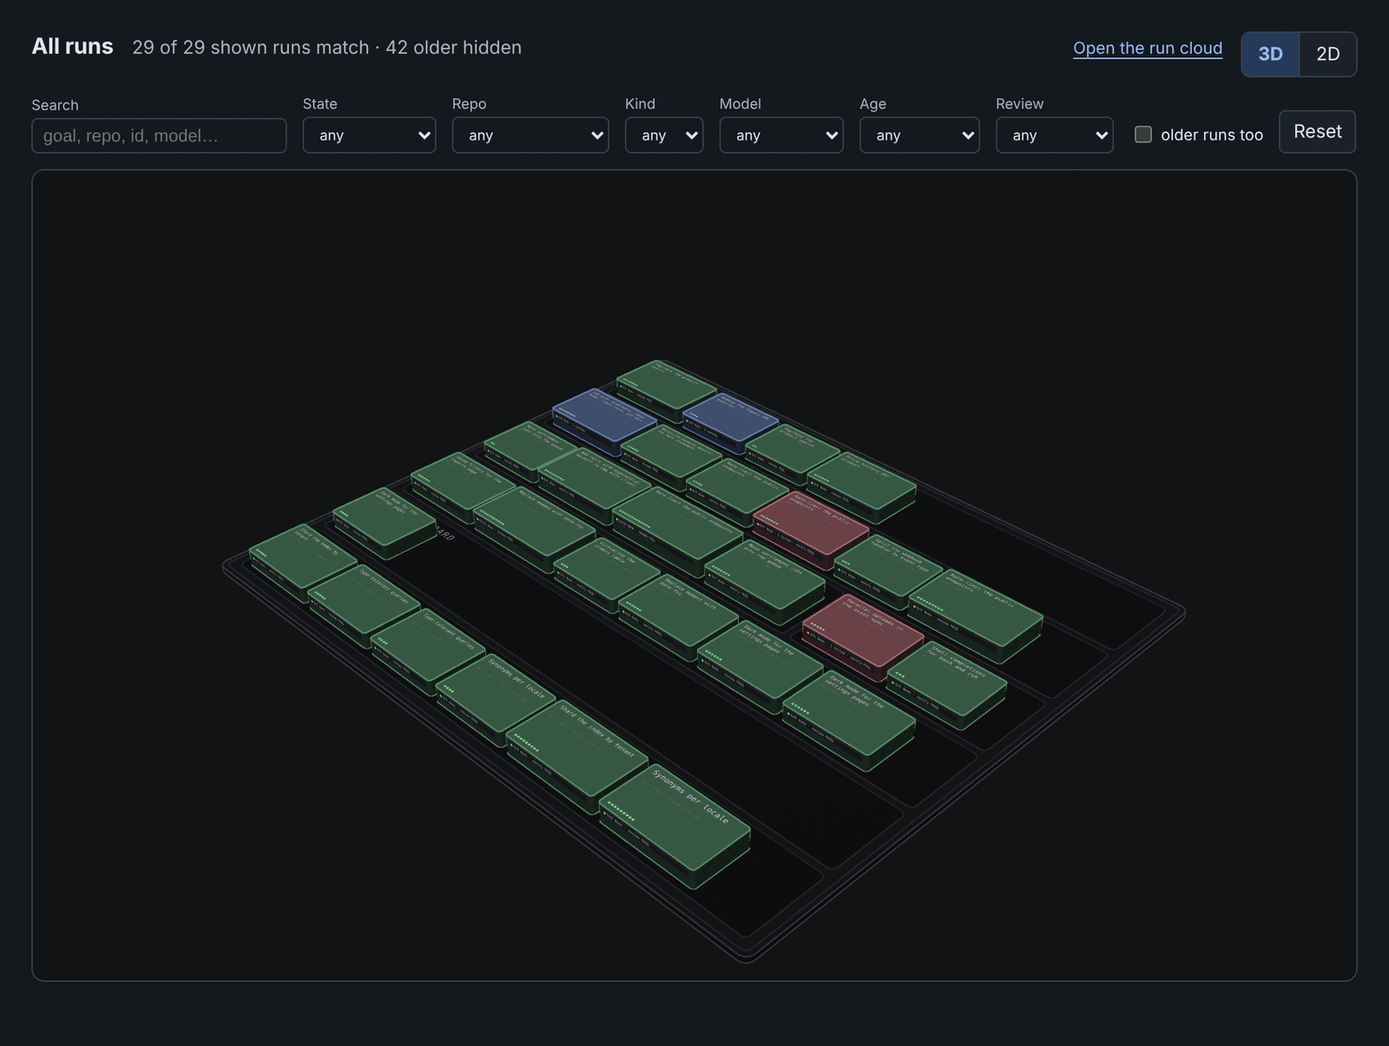
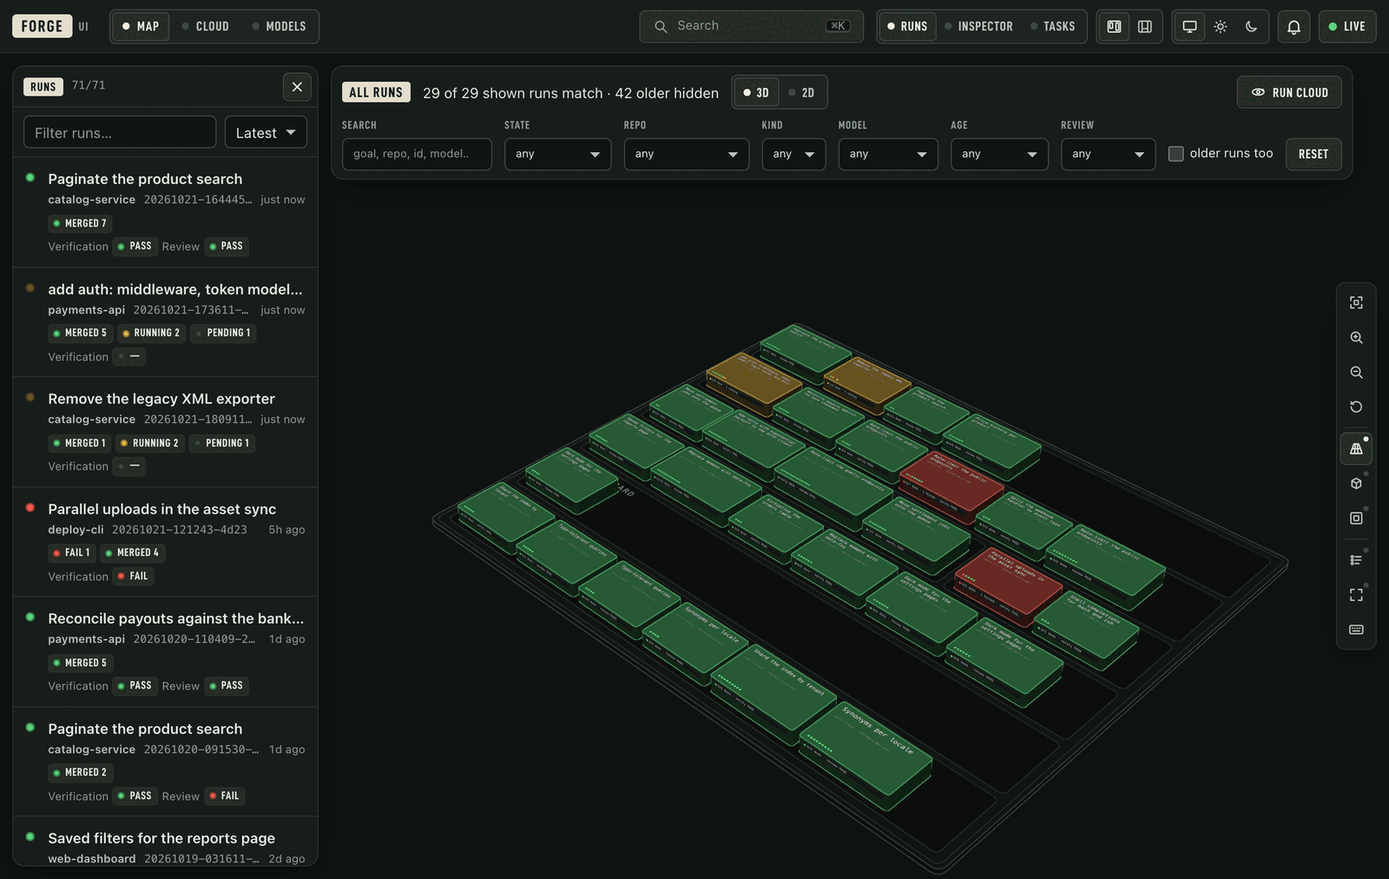
docs(ui): README pictures of the new forge-ui
The hero, the run cloud and the stills are shot again from the demo runs in
the Signal Box look: whole windows with the runs list and the inspector, the
finding marks on the plate, the diff opened at a finding. readme_media.py
seeds the Immersive modules per shot, zooms with the stage's own key, keeps
frames coming while it waits (headless Chromium can stop drawing otherwise)
and builds the animations with ImageMagick and img2webp, so it no longer
needs an ffmpeg built with libwebp. A finding in a diff now shows its
severity's shape once, in its chip.

diff --git a/ui/forge_ui/static/style.css b/ui/forge_ui/static/style.css
@@ -810,8 +810,7 @@ dialog.jump::backdrop, dialog.export-dialog::backdrop { background: light-dark(r
 .diff-line.meta td.code { color: var(--muted); font-style: italic; }
 .diff-hunk td { background: var(--hunk); color: var(--muted); padding: 3px 10px; white-space: pre; }
 .diff-pin > td { padding: 6px 10px 6px 7.4em; background: var(--module); font-family: var(--font-ui); font-size: var(--t-sm); white-space: normal; }
-.diff-finding { position: relative; border: 1px solid var(--rule); border-radius: var(--r-key); padding: 6px 10px 6px 26px; background: var(--module); max-width: 900px; scroll-margin: 80px; transition: box-shadow var(--dur-1) var(--ease-out); }
-.diff-finding::before { content: ''; position: absolute; left: 9px; top: 11px; width: 10px; height: 10px; clip-path: var(--sev-shape, circle(30%)); background: var(--sev, var(--rule-2)); }
+.diff-finding { position: relative; border: 1px solid var(--rule); border-radius: var(--r-key); padding: 6px 10px; background: var(--module); max-width: 900px; scroll-margin: 80px; transition: box-shadow var(--dur-1) var(--ease-out); }   /* its chip carries the severity's shape */
 .diff-finding.flash { box-shadow: 0 0 0 2px var(--route); }
 .diff-finding-head { display: flex; flex-wrap: wrap; align-items: center; gap: 6px; font-size: var(--t-xs); }
 .diff-finding p { margin: 4px 0 0; overflow-wrap: anywhere; }

diff --git a/ui/tools/readme_media.py b/ui/tools/readme_media.py
@@ -1,6 +1,6 @@
 """The README's pictures of forge-ui, made again from the made-up runs of demo_runs.py.
 
-Needs Python Playwright with its Chromium, ffmpeg (with libwebp) and ImageMagick, and three.js:
+Needs Python Playwright with its Chromium, ImageMagick and the WebP tools (img2webp), and three.js:
 from the CDN, or from a local copy of the three@0.160.0 npm package named by FORGE_UI_TEST_THREE
 (its package/ dir).
 Development-only, like the browser tests: nothing here runs in forge itself.
@@ -10,6 +10,7 @@ Development-only, like the browser tests: nothing here runs in forge itself.
 from __future__ import annotations
 
 import argparse
+import json
 import os
 from pathlib import Path
 import shutil
@@ -62,15 +63,18 @@ class Studio:
     def __init__(self, out, browser, url, key, catalog):
         self.out, self.browser, self.url, self.key, self.catalog = out, browser, url, key, catalog
 
-    def page(self, motion=False, mode='plan', view=None):
+    def page(self, motion=False, mode='plan', view=None, shell=None):
+        """shell: which modules start open ({'runs', 'insp', 'tasks'}: true or false), Immersive layout."""
         ctx = self.browser.new_context(viewport=view or (MOTION_VIEW if motion else VIEW), device_scale_factor=1 if motion else 2,
                                        color_scheme='dark')
         page = ctx.new_page()
         if motion:
             page.add_init_script(CLOCK)
         page.on('pageerror', lambda e: print('page error:', e, file=sys.stderr))
+        modules = {'shell': 'immersive', 'runs': False, 'insp': False, 'tasks': False, **(shell or {})}
         page.add_init_script("try { localStorage.setItem('forge-ui-view', '\"3d\"'); "
-                             f"localStorage.setItem('forge-ui-mode', '\"{mode}\"'); }} catch (_) {{}}")
+                             f"localStorage.setItem('forge-ui-mode', '\"{mode}\"'); "
+                             f"localStorage.setItem('forge-ui-shell', '{json.dumps(modules)}'); }} catch (_) {{}}")
         if THREE:
             def serve(route):
                 path = Path(THREE) / route.request.url[len(CDN):].split('?')[0]
@@ -91,8 +95,9 @@ class Studio:
 
     @staticmethod
     def settle(page, ms=900):
-        """Let tweens and the camera finish, then wait for two quiet frames."""
-        page.wait_for_timeout(ms)
+        """Let tweens and the camera finish, asking for frames all along (headless Chromium can stop drawing a
+        page whose only pending frame was asked for mid-frame), then wait for two quiet frames."""
+        page.evaluate('ms => new Promise(r => { const t0 = performance.now(); const f = () => performance.now() - t0 > ms ? r() : requestAnimationFrame(f); f(); })', ms)
         page.evaluate('() => new Promise(r => requestAnimationFrame(() => requestAnimationFrame(r)))')
 
     def still(self, page, name, clip):
@@ -120,10 +125,12 @@ class Studio:
             w, h, x, y = (int(v) for v in box.replace('x', '+').split('+'))
             x0, y0 = max(x + inset - pad, inset), max(y + inset - pad, inset)
             x1, y1 = min(x + inset + w + pad, width - inset), min(y + inset + h + pad, height - inset)
-            subprocess.run(['ffmpeg', '-v', 'error', '-y', '-framerate', str(FPS), '-i', str(Path(tmp) / '%05d.png'),
-                            '-vf', f'crop={x1 - x0}:{y1 - y0}:{x0}:{y0},scale=min({ANIM_WIDTH}\\,iw):-1:flags=lanczos',
-                            '-c:v', 'libwebp_anim', '-lossless', '0', '-quality', '75', '-compression_level', '6', '-loop', '0',
-                            str(dest)], check=True)
+            cut = Path(tmp) / 'cut'
+            cut.mkdir()
+            subprocess.run(['mogrify', '-path', str(cut), '-crop', f'{x1 - x0}x{y1 - y0}+{x0}+{y0}', '+repage',
+                            '-filter', 'Lanczos', '-resize', f'{ANIM_WIDTH}x>', *map(str, first)], check=True)
+            subprocess.run(['img2webp', '-loop', '0', '-lossy', '-q', '75', '-m', '6', '-d', str(1000 // FPS),
+                            *map(str, sorted(cut.glob('*.png'))), '-o', str(dest)], check=True, capture_output=True)
         print(f'{dest.name}: {dest.stat().st_size // 1024} KB, {len(frames)} frames')
 
     @staticmethod
@@ -136,34 +143,35 @@ class Studio:
             y1 = min(y1, bottom)
         return dict(x=max(x0, 0), y=max(y0, 0), width=x1 - max(x0, 0), height=y1 - max(y0, 0))
 
-    def zoom(self, page, clicks, at=(.5, .5)):
-        """Bring the camera closer: a click in an empty corner engages the wheel without selecting anything."""
-        slot = self.box(page, '#stage-slot')
-        page.mouse.click(slot['x'] + 10, slot['y'] + 10)
-        page.mouse.move(slot['x'] + slot['width'] * at[0], slot['y'] + slot['height'] * at[1])
-        for _ in range(clicks):
-            page.mouse.wheel(0, -160)
-            page.wait_for_timeout(150)
-        page.evaluate('document.activeElement && document.activeElement.blur()')   # no focus ring in the picture
+    def zoom(self, page, presses):
+        """Bring the camera closer with the stage's own key (+), which works wherever focus is."""
+        for _ in range(presses):
+            page.keyboard.press('+')
+            page.wait_for_timeout(300)
         page.mouse.move(0, 0)
         self.settle(page, 1200)
+
+    @staticmethod
+    def window(page):
+        """The whole window: the stage with the modules floating over it."""
+        return dict(x=0, y=0, **page.viewport_size)
 
     # -- stills ----------------------------------------------------------------------------------
 
     def run(self):
-        ctx, page = self.page()
+        ctx, page = self.page(shell={'runs': True, 'insp': True})
         self.go(page, f'#/runs/{self.key}')
         self.settle(page, 1500)
-        self.zoom(page, 3)
-        self.still(page, 'run', self.box(page, '#stage-slot', '#inspector', pad=8, bottom=VIEW['height'] - 4))
+        self.zoom(page, 1)
+        self.still(page, 'run', self.window(page))
         ctx.close()
 
     def execution(self):
-        ctx, page = self.page(mode='exec')
+        ctx, page = self.page(mode='exec', shell={'insp': True})
         self.go(page, f'#/runs/{self.key}')
         self.settle(page, 1500)
-        self.zoom(page, 5, at=(.42, .5))
-        self.still(page, 'execution', self.box(page, '#stage-slot', '#inspector', pad=8, bottom=VIEW['height'] - 4))
+        self.zoom(page, 2)
+        self.still(page, 'execution', self.window(page))
         ctx.close()
 
     def files(self):
@@ -171,20 +179,19 @@ class Studio:
         self.go(page, f'#/runs/{self.key}', stage=False)
         page.wait_for_selector('#files-view .fm-cell')
         self.settle(page)
-        self.still(page, 'files', self.box(page, '#files-view', pad=8, bottom=VIEW['height'] - 4))
+        self.still(page, 'files', self.box(page, '#main', bottom=VIEW['height']))
         ctx.close()
 
     def diff(self):
         detail = server.api_get(self.catalog, f'/api/runs/{self.key}/tasks/token-model/diff')
         source = next(s['id'] for s in detail['sources'] if s.get('verdict') == 'FAIL')
         ctx, page = self.page()
-        self.go(page, f'#/runs/{self.key}/tasks/token-model/diff/{source}', stage=False)
+        # opened at its first finding, as a finding's mark on the stage opens it: the diff scrolls to it
+        self.go(page, f'#/runs/{self.key}/tasks/token-model/diff/{source}/finding/{source}%3A0', stage=False)
         page.wait_for_selector('#diff-view .diff-pin')
-        self.settle(page)
-        page.locator('#diff-view').scroll_into_view_if_needed()
-        self.settle(page, 300)
-        last = page.locator('#diff-view .diff-pin').last.bounding_box()
-        self.still(page, 'diff', self.box(page, '#diff-view', pad=8, bottom=last['y'] + last['height'] + 12))
+        self.settle(page, 2000)                                 # past the finding's flash
+        page.evaluate('document.activeElement && document.activeElement.blur()')
+        self.still(page, 'diff', self.box(page, '#diff-view', pad=8, bottom=VIEW['height'] - 4))
         ctx.close()
 
     def models(self):
@@ -196,11 +203,11 @@ class Studio:
         ctx.close()
 
     def map(self):
-        ctx, page = self.page()
+        ctx, page = self.page(shell={'runs': True})
         self.go(page, '#/')
         self.settle(page, 1500)
-        self.zoom(page, 2)
-        self.still(page, 'map', self.box(page, '#main', bottom=VIEW['height']))
+        page.mouse.move(0, 0)
+        self.still(page, 'map', self.window(page))
         ctx.close()
 
     # -- animations ------------------------------------------------------------------------------
@@ -224,7 +231,12 @@ class Studio:
         ctx, page = self.page(motion=True)
         self.go(page, f'#/runs/{self.key}')
         self.settle(page, 1500)
-        crop = self.box(page, '#stage-slot')
+        self.zoom(page, 1)
+        # the open stage only: below the run's header, above the tasks, left of the stage's keys
+        slot, head = self.box(page, '#stage-slot'), page.locator('#run-head').bounding_box()
+        tasks, keys = page.locator('.tasks-module').bounding_box(), page.locator('.stage-ctl').bounding_box()
+        top, right = head['y'] + head['height'] + 8, keys['x'] - 8
+        crop = dict(x=slot['x'], y=top, width=right - slot['x'], height=tasks['y'] - 8 - top)
         page.evaluate('window.__clock.freeze()')
         frames = self.film(page, crop, 1.5)
         page.click('[data-mode="exec"]')
@@ -264,7 +276,7 @@ def main(argv=None):
     parser.add_argument('out', nargs='?', type=Path, default=HERE.parent / 'docs' / 'media')
     parser.add_argument('--only', nargs='+', choices=TAKES, default=TAKES, metavar='NAME', help=', '.join(TAKES))
     args = parser.parse_args(argv)
-    for tool in ('ffmpeg', 'convert', 'identify'):
+    for tool in ('img2webp', 'convert', 'mogrify', 'identify'):
         if not shutil.which(tool):
             parser.error(f'{tool} is not installed')
     args.out.mkdir(parents=True, exist_ok=True)

diff --git a/README.md b/README.md
@@ -23,7 +23,7 @@
 </p>
 
 <p align="center">
-  <img src="ui/docs/media/hero.webp" width="880" alt="A decomposed run in forge-ui's 3D view: eight tasks on a plate in their planned waves, five merged in green and two running in blue, then the same run on wall-clock time, where two first attempts that failed review show in red beside the retries that passed.">
+  <img src="ui/docs/media/hero.webp" width="880" alt="A decomposed run in forge-ui's 3D view: eight tasks on a plate in their planned waves, five merged in green and two running in amber, with a mark over each block for every review finding, then the same run on wall-clock time, where two first attempts that failed review show in red beside the retries that passed.">
 </p>
 <p align="center"><sub>The run from <a href="#quick-start">Quick start</a> in <a href="#forge-ui">forge-ui</a>: its tasks in the waves the plan gave them, then as they really ran, the failed attempts and their retries included. Demo data.</sub></p>
 
@@ -146,8 +146,8 @@ never opens it without a yes.
 
 <table>
 <tr>
-<td width="50%" valign="top"><img src="ui/docs/media/run.png" alt="A run's eight tasks on a 3D plate in their planned waves, with dependency cables and the finish nodes, beside the run's inspector."><br><b>A run, as planned.</b> Tasks in their waves with dependency cables, ending in integration, verification and the final review. Click a task to open its attempts, dwarves and reviews.</td>
-<td width="50%" valign="top"><img src="ui/docs/media/execution.png" alt="The same run on wall-clock time: one block per attempt, failed attempts in red, a plane marking now, and the inspector's timeline and critical path."><br><b>And as it ran.</b> One block per attempt in the lane it ran in, failed ones in red, against <code>--max-parallel</code>; the inspector names the critical path.</td>
+<td width="50%" valign="top"><img src="ui/docs/media/run.png" alt="forge-ui's window: the runs list, a run's eight tasks on a 3D plate in their planned waves with dependency cables, finding marks and the finish nodes, and the run's inspector."><br><b>A run, as planned.</b> Tasks in their waves with dependency cables, ending in integration, verification and the final review. Click a task to open its attempts, dwarves and reviews.</td>
+<td width="50%" valign="top"><img src="ui/docs/media/execution.png" alt="The same run on wall-clock time: one block per attempt, failed attempts in red with their finding marks, a plane marking now, the concurrency strip, and the inspector's timeline and critical path."><br><b>And as it ran.</b> One block per attempt in the lane it ran in, failed ones in red, against <code>--max-parallel</code>; the inspector names the critical path.</td>
 </tr>
 <tr>
 <td valign="top"><img src="ui/docs/media/diff.png" alt="The diff a reviewer read, with a P1 finding pinned under the line comparing token digests and a P2 finding under the revoke function."><br><b>Findings on their lines.</b> Any diff of a task, or exactly the diff one reviewer read, with each P0–P3 finding under the line it names.</td>
@@ -155,7 +155,7 @@ never opens it without a yes.
 </tr>
 <tr>
 <td valign="top"><img src="ui/docs/media/files.png" alt="The files heatmap: files grouped by directory against tasks grouped by wave, with planned, touched, drift and same-wave overlap marks."><br><b>Who touched which file.</b> Planned, changed, drifted into or conflicted on, wave by wave; a cell opens that file's diff.</td>
-<td valign="top"><img src="ui/docs/media/map.png" alt="The map of every run: one block per run in a district per repo, green when done, blue while running, red with failures."><br><b>Every run, by repo.</b> One block per run with a lamp per task, filtered by state, repo, model, age or review verdict.</td>
+<td valign="top"><img src="ui/docs/media/map.png" alt="The map of every run: one block per run in a district per repo, green when done, amber while running, red with failures."><br><b>Every run, by repo.</b> One block per run with a lamp per task, filtered by state, repo, model, age or review verdict.</td>
 </tr>
 </table>
 

diff --git a/ui/README.md b/ui/README.md
@@ -31,7 +31,7 @@ blocks on a plate, with cables between them and lamps that light up as things ha
   [What you see](#what-you-see).
 
 <p align="center">
-  <img src="docs/media/hero.webp" width="860" alt="A decomposed run on its 3D plate: eight tasks in their planned waves, then the same run on wall-clock time, where two first attempts that failed review show in red beside the retries that passed.">
+  <img src="docs/media/hero.webp" width="860" alt="A decomposed run on its 3D plate: eight tasks in their planned waves with a mark for each review finding, then the same run on wall-clock time, where two first attempts that failed review show in red beside the retries that passed.">
 </p>
 
 The 3D view loads three.js from a CDN the first time it is used (see [Privacy](#privacy)).
@@ -119,7 +119,7 @@ keep one meaning everywhere (amber running, green merged or passed, red failed, 
   60 runs from the past 14 days; *older runs too* shows the rest. The runs list follows the same
   filter, and sorts by latest activity, state or repo.
 
-  <img src="docs/media/map.png" width="760" alt="The map: one block per run, in a district per repo, green when done, blue while running, red with failures.">
+  <img src="docs/media/map.png" width="760" alt="The map: one block per run, in a district per repo, green when done, amber while running, red with failures.">
 - **Run cloud (`#/cloud`):** every run at once, full screen, floating in 3D and grouped by project
   (repo). Pick a layout: *Helix* (one spiral per project, oldest at the bottom), *Sphere*,
   *Galaxy* (a disc per project, newest at the centre), *Timeline* (left to right by start time,
@@ -169,7 +169,7 @@ keep one meaning everywhere (amber running, green merged or passed, red failed, 
   ascending, descending, off), reorder by dragging a header (or Alt+← → on it), and show or hide
   columns from *Columns*, which also resets them. Each table remembers its columns.
 
-  <img src="docs/media/run.png" width="49%" alt="Planned waves: a run's tasks on a 3D plate with dependency cables and the finish nodes, beside the run's inspector."> <img src="docs/media/execution.png" width="49%" alt="Execution: one block per attempt on wall-clock time, failed attempts in red, with the timeline and critical path in the inspector.">
+  <img src="docs/media/run.png" width="49%" alt="Planned waves: a run's tasks on a 3D plate with dependency cables, finding marks and the finish nodes, between the runs list and the run's inspector."> <img src="docs/media/execution.png" width="49%" alt="Execution: one block per attempt on wall-clock time, failed attempts in red, with the timeline and critical path in the inspector.">
 - **Inspector:** for the run, its timeline, critical path, peak concurrency and finish line;
   for a task, its models and routing, escalations, timings (busy, model time, overhead,
   queue wait after its dependencies merged), attempts and their executions, review findings
@@ -183,7 +183,7 @@ keep one meaning everywhere (amber running, green merged or passed, red failed, 
   most tasks, and hide any kind of mark; a cell selects its task and offers that file's diff.
   Below: overlaps, drift, merge conflicts and deferrals as lists.
 
-  <img src="docs/media/files.png" width="560" alt="The files heatmap: files by directory against tasks by wave, with planned, touched, drift and same-wave overlap marks.">
+  <img src="docs/media/files.png" width="760" alt="The files heatmap: files by directory against tasks by wave, with planned, touched, drift and same-wave overlap marks.">
 - **Models (`#/models`):** a leaderboard of the models forge used. Implementers: tasks, first-attempt
   pass rate with its 95% Wilson interval, censored attempts, retries, escalations away from the
   model, timeouts, gate and human accepts, median model time and tokens. Reviewers: primary,

diff --git a/docs/forge-ui.md b/docs/forge-ui.md
@@ -14,8 +14,8 @@ and the cloud remembers it.
 
 <table>
 <tr>
-<td width="50%" valign="top"><img src="../ui/docs/media/run.png" alt="A run's eight tasks on a 3D plate in their planned waves, with dependency cables and the finish nodes, beside the run's inspector."><br><b>A run, as planned.</b> Tasks in their waves with dependency cables, ending in integration, verification and the final review. Click a task to open its attempts, dwarves and reviews.</td>
-<td width="50%" valign="top"><img src="../ui/docs/media/execution.png" alt="The same run on wall-clock time: one block per attempt, failed attempts in red, a plane marking now, and the inspector's timeline and critical path."><br><b>And as it ran.</b> One block per attempt in the lane it ran in, failed ones in red, against <code>--max-parallel</code>; the inspector names the critical path.</td>
+<td width="50%" valign="top"><img src="../ui/docs/media/run.png" alt="forge-ui's window: the runs list, a run's eight tasks on a 3D plate in their planned waves with dependency cables, finding marks and the finish nodes, and the run's inspector."><br><b>A run, as planned.</b> Tasks in their waves with dependency cables, ending in integration, verification and the final review. Click a task to open its attempts, dwarves and reviews.</td>
+<td width="50%" valign="top"><img src="../ui/docs/media/execution.png" alt="The same run on wall-clock time: one block per attempt, failed attempts in red with their finding marks, a plane marking now, the concurrency strip, and the inspector's timeline and critical path."><br><b>And as it ran.</b> One block per attempt in the lane it ran in, failed ones in red, against <code>--max-parallel</code>; the inspector names the critical path.</td>
 </tr>
 <tr>
 <td valign="top"><img src="../ui/docs/media/diff.png" alt="The diff a reviewer read, with a P1 finding pinned under the line comparing token digests and a P2 finding under the revoke function."><br><b>Findings on their lines.</b> Any diff of a task, or exactly the diff one reviewer read, with each P0–P3 finding under the line it names.</td>
@@ -23,7 +23,7 @@ and the cloud remembers it.
 </tr>
 <tr>
 <td valign="top"><img src="../ui/docs/media/files.png" alt="The files heatmap: files grouped by directory against tasks grouped by wave, with planned, touched, drift and same-wave overlap marks."><br><b>Who touched which file.</b> Planned, changed, drifted into or conflicted on, wave by wave; a cell opens that file's diff.</td>
-<td valign="top"><img src="../ui/docs/media/map.png" alt="The map of every run: one block per run in a district per repo, green when done, blue while running, red with failures."><br><b>Every run, by repo.</b> One block per run with a lamp per task, filtered by state, repo, model, age or review verdict.</td>
+<td valign="top"><img src="../ui/docs/media/map.png" alt="The map of every run: one block per run in a district per repo, green when done, amber while running, red with failures."><br><b>Every run, by repo.</b> One block per run with a lamp per task, filtered by state, repo, model, age or review verdict.</td>
 </tr>
 </table>
 

diff --git a/DESIGN.md b/DESIGN.md
@@ -339,7 +339,7 @@ The stage's key bank sits on ply 1. The legend, the hover card and the keys shee
 
 ## Shapes
 
-Corners are gentle and nest by rank: 12px for modules, popovers and dialogs, 6px for keys, fields, describers and inner boxes, 4px for chips, push buttons inside a bank and the model plate, and 3px for engraved plates. Lamps are 7 to 9px circles with a 1.5px inset edge ring. The severity shapes are clip paths: a triangle spike for P0, a diamond for P1, a downward cone for P2 and a round pin for P3. The same shapes stand in 3D on the plate: a four-sided spike for P0, a stretched octahedron for P1, an inverted cone for P2, a sphere for P3 and a ring for a finding with no severity, each on a short post. Findings in a diff carry their severity shape (10px). In the inspector's finding list a finding is a rotated square, filled when confirmed and hollow when only plausible. Disclosures use a drawn 1.5px chevron, never the browser's triangle. Latched stage keys carry a 5px lamp in their top-right corner. Name tags and the escalation hop are 22px pills with 6px corners. Icons are a set authored for forge-ui on a 24-unit grid with a 1.5 stroke, round joins and currentColor, built with createElementNS. The stage set adds perspective, isometric, top-down, fit, reset, zoom in, zoom out, full screen, legend and keyboard.
+Corners are gentle and nest by rank: 12px for modules, popovers and dialogs, 6px for keys, fields, describers and inner boxes, 4px for chips, push buttons inside a bank and the model plate, and 3px for engraved plates. Lamps are 7 to 9px circles with a 1.5px inset edge ring. The severity shapes are clip paths: a triangle spike for P0, a diamond for P1, a downward cone for P2 and a round pin for P3. The same shapes stand in 3D on the plate: a four-sided spike for P0, a stretched octahedron for P1, an inverted cone for P2, a sphere for P3 and a ring for a finding with no severity, each on a short post. Findings in a diff carry their severity shape once, in their severity chip. In the inspector's finding list a finding is a rotated square, filled when confirmed and hollow when only plausible. Disclosures use a drawn 1.5px chevron, never the browser's triangle. Latched stage keys carry a 5px lamp in their top-right corner. Name tags and the escalation hop are 22px pills with 6px corners. Icons are a set authored for forge-ui on a 24-unit grid with a 1.5 stroke, round joins and currentColor, built with createElementNS. The stage set adds perspective, isometric, top-down, fit, reset, zoom in, zoom out, full screen, legend and keyboard.
 
 ## Components
 
